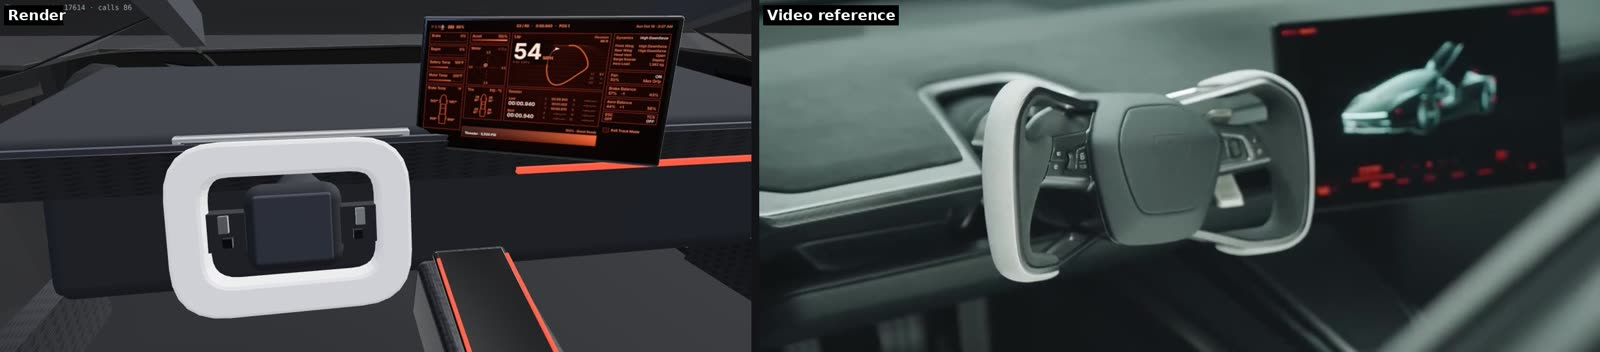
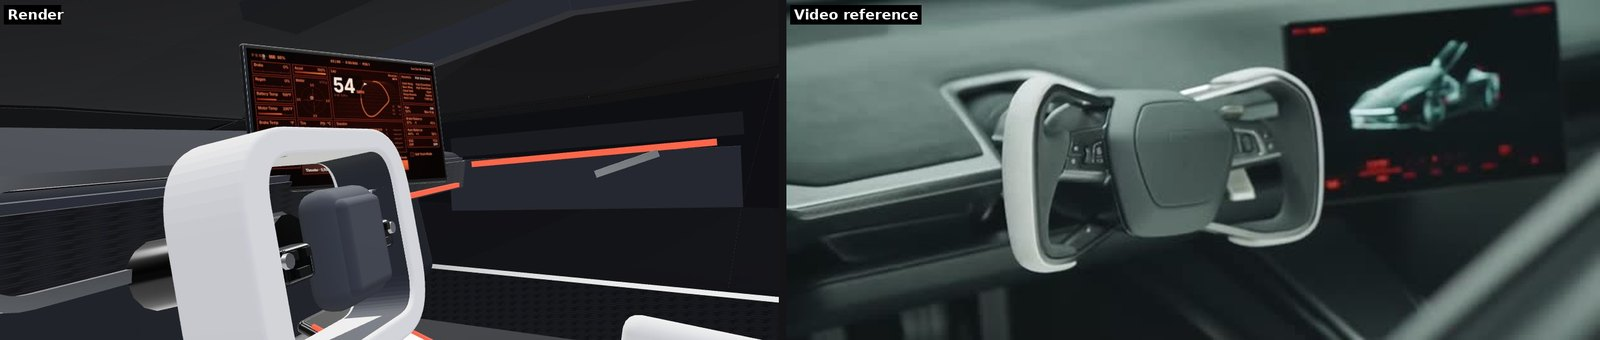
WIP: trunk gas tank and yoke rebuild (in progress)
Claude-Session: https://claude.ai/code/session_01GbkWYSAfWPfAWv1QqvCTVo

diff --git a/src/car.js b/src/car.js
@@ -57,6 +57,9 @@ const REAR_GLASS_END = -1.75;
 const DOOR_FRONT = 0.84;
 const DOOR_REAR = -0.28;
 const LID_FRONT = 1.98; // front lid: the hood panel between the two lamp seams
+// Rear trunk lid over the gas sphere: the deck and rear glass behind the cabin, hinged at its rear
+// edge just ahead of the wing; the front edge swings up tall.
+const TRUNK_FRONT = SIDE_GLASS_REAR, TRUNK_HINGE = -1.64;
 const ARCH_R = 0.4; // horizontal radius
 const ARCH_RY = 0.36; // vertical radius (the fender sits tight over the tyre)
 const ARCH_CY = SUSP.radius - COM_H; // wheel centre height at rest
@@ -261,6 +264,16 @@ function carbonTexture(light = false) {
   return t;
 }
 
+// Rounded rectangle path centred on the origin (for the yoke and the binnacle).
+function roundRect(sh, w, h, r) {
+  const x = -w / 2, y = -h / 2;
+  sh.moveTo(x + r, y); sh.lineTo(x + w - r, y); sh.quadraticCurveTo(x + w, y, x + w, y + r);
+  sh.lineTo(x + w, y + h - r); sh.quadraticCurveTo(x + w, y + h, x + w - r, y + h);
+  sh.lineTo(x + r, y + h); sh.quadraticCurveTo(x, y + h, x, y + h - r);
+  sh.lineTo(x, y + r); sh.quadraticCurveTo(x, y, x + r, y);
+  return sh;
+}
+
 // Box stretched between two points (for thin trim lines and struts).
 function barBetween(a, b, w, h, mat) {
   const d = new THREE.Vector3().subVectors(b, a);
@@ -291,7 +304,7 @@ export class RoadsterModel {
     this._q = new THREE.Quaternion();
     this.makeMaterials();
     this.buildBody();
-    this.buildFrunk();
+    this.buildTrunk();
     this.buildDetails();
     this.buildTail();
     if (opts.interior !== false) this.buildInterior(variant);
@@ -327,6 +340,7 @@ export class RoadsterModel {
       white: new THREE.MeshStandardMaterial({ color: 0xe9e9e6, roughness: 0.78 }),
       seatGray: new THREE.MeshStandardMaterial({ color: 0xb4b6b8, roughness: 0.9 }),
       alcantara: new THREE.MeshStandardMaterial({ color: 0x2b2d30, roughness: 1 }),
+      padGray: new THREE.MeshStandardMaterial({ color: 0x46494d, roughness: 0.8 }),
       trim: new THREE.MeshStandardMaterial({ color: 0x3c3f44, roughness: 0.75, metalness: 0.15 }),
       carbon: new THREE.MeshStandardMaterial({ color: 0xffffff, map: carbon, metalness: 0.35, roughness: 0.38 }),
       metal: new THREE.MeshStandardMaterial({ color: 0x3b3f45, metalness: 0.9, roughness: 0.3 }),
@@ -358,6 +372,7 @@ export class RoadsterModel {
     const xs = KEYS.map((k) => k[0]);
     const axles = [WHEELS[0].x, WHEELS[2].x];
     for (const wx of axles) for (let i = 1; i < 10; i++) xs.push(wx + ARCH_R * Math.cos((i / 10) * PI));
+    xs.push(TRUNK_HINGE);
     const archY = (x) => {
       for (const wx of axles) {
         const dx = (x - wx) / ARCH_R;
@@ -396,6 +411,7 @@ export class RoadsterModel {
     const mesh = new Mesher();
     const doorMesh = [new Mesher(), new Mesher()];
     const lidMesh = new Mesher();
+    const trunkMesh = new Mesher();
     const V = (st, k, side) => [st.x + (st.skew ? st.skew[k] : 0), st.pts[k][0], st.pts[k][1] * side];
     const ST = this.stations;
     for (let si = 0; si < ST.length - 1; si++) {
@@ -410,10 +426,11 @@ export class RoadsterModel {
         else if (k === 7) key = xm < WIN_FRONT && xm > REAR_GLASS_END ? 'glass' : 'paint';
         const door = k >= 3 && k <= 6 && xm < DOOR_FRONT && xm > DOOR_REAR;
         const lid = k === 7 && xm < LID_FRONT && xm > WIN_FRONT;
+        const trunk = (k === 6 || k === 7) && xm < TRUNK_FRONT && xm > TRUNK_HINGE;
         for (let side = 1; side >= -1; side -= 2) {
           const a = V(s0, k, side), b = V(s0, k + 1, side);
           const c = V(s1, k + 1, side), d = V(s1, k, side);
-          const target = door ? doorMesh[side > 0 ? 0 : 1] : lid ? lidMesh : mesh;
+          const target = door ? doorMesh[side > 0 ? 0 : 1] : lid ? lidMesh : trunk ? trunkMesh : mesh;
           const inner = door ? 'doorIn' : 'liner';
           if (side > 0) {
             target.tri(key, a, b, c);
@@ -468,6 +485,21 @@ export class RoadsterModel {
       m.add(pivot);
       this.lid = { pivot, inner };
     }
+    // Rear trunk lid (deck and rear glass): hinged at its rear edge, the front edge lifts.
+    {
+      const hy = sectionAt(TRUNK_HINGE)[T][0];
+      const pivot = new THREE.Group();
+      pivot.position.set(TRUNK_HINGE, hy, 0);
+      const inner = new THREE.Group();
+      inner.position.set(-TRUNK_HINGE, -hy, 0);
+      pivot.add(inner);
+      add(trunkMesh.geometry('paint'), this.mat.paint, inner);
+      add(trunkMesh.geometry('liner'), this.mat.liner, inner);
+      const tg = add(trunkMesh.geometry('glass'), this.mat.glass, inner);
+      if (tg) tg.renderOrder = 2;
+      m.add(pivot);
+      this.trunk = { pivot, inner };
+    }
 
     // Hinge at the front of the door just under the A-pillar; the axis is mostly transverse (the
     // door's rear edge swings up) and leans so the door also splays outward, as in the photos.
@@ -500,35 +532,37 @@ export class RoadsterModel {
     }
   }
 
-  // ---------------------------------------------------------------- front compartment
-  buildFrunk() {
+  // ---------------------------------------------------------------- rear trunk
+  // Behind the seat backs, under the rear deck lid: the carbon-wrapped gas sphere (COPV) with a
+  // grey girth band over its top, a cross tube in front of it and the valve block on its side.
+  buildTrunk() {
     const m = this.group;
     const b = new Batch();
-    // tub under the lid (inside faces only)
-    const tub = new THREE.Mesh(new THREE.BoxGeometry(0.72, 0.36, 1.16), new THREE.MeshStandardMaterial({ color: 0x1a1b1e, roughness: 0.8, side: THREE.BackSide }));
-    tub.position.set(1.58, -0.13, 0);
+    // tub (inside faces only), between the cabin bulkhead and the tail
+    const tub = new THREE.Mesh(new THREE.BoxGeometry(0.76, 0.62, 1.24), new THREE.MeshStandardMaterial({ color: 0x1a1b1e, roughness: 0.8, side: THREE.BackSide }));
+    tub.position.set(-1.25, -0.01, 0);
     tub.userData.shadow = false;
     m.add(tub);
-    // carbon-wrapped gas sphere (COPV)
-    const cx = 1.5, cy = -0.03, r = 0.2;
-    const sphere = new THREE.Mesh(new THREE.SphereGeometry(r, 24, 16), this.mat.copv);
+    const cx = -1.22, cy = 0.1, r = 0.27;
+    const sphere = new THREE.Mesh(new THREE.SphereGeometry(r, 28, 18), this.mat.copv);
     sphere.position.set(cx, cy, 0);
     m.add(sphere);
-    // girth band and the tubular cradle around it
-    b.add('trim', new THREE.TorusGeometry(r + 0.004, 0.012, 6, 32), cx, cy, 0, 0, PI / 2, 0);
-    b.add('metal', new THREE.TorusGeometry(r + 0.03, 0.011, 6, 24, PI), cx, cy, 0, 0, 0, 0);
-    b.bar('metal', new THREE.Vector3(cx - r - 0.03, cy, 0.0), new THREE.Vector3(cx - r - 0.03, cy - 0.2, 0), 0.022, 0.022);
-    b.bar('metal', new THREE.Vector3(cx + r + 0.03, cy, 0.0), new THREE.Vector3(cx + r + 0.03, cy - 0.2, 0), 0.022, 0.022);
-    for (const s of [1, -1]) b.bar('metal', new THREE.Vector3(cx - 0.05, cy + 0.02, s * 0.22), new THREE.Vector3(cx - 0.3, cy + 0.1, s * 0.45), 0.02, 0.02);
-    // valve / regulator assembly on the front face
-    const vx = cx + r * 0.8, vz = 0.09;
-    b.rbox('gloss', 0.035, 0.22, 0.13, 0.008, vx + 0.07, cy - 0.01, vz, 0, -0.5, -0.35, 'YXZ');
-    b.add('trim', new THREE.CylinderGeometry(0.03, 0.03, 0.2, 14), vx + 0.04, cy - 0.01, vz, 0, -0.5, -0.35, 'YXZ');
-    b.add('silver', new THREE.CylinderGeometry(0.032, 0.032, 0.02, 14), vx + 0.06, cy + 0.08, vz - 0.02, 0, -0.5, -0.35, 'YXZ');
-    b.add('metal', new THREE.CylinderGeometry(0.012, 0.012, 0.18, 8), vx + 0.02, cy - 0.11, vz - 0.04, 0, 0, 1.2);
-    b.box('silver', 0.03, 0.04, 0.05, vx + 0.07, cy - 0.12, vz + 0.04);
-    // cross tube from the bulkhead past the sphere
-    b.bar('metal', new THREE.Vector3(1.22, 0.04, -0.4), new THREE.Vector3(1.78, 0.02, 0.32), 0.03, 0.03);
+    // girth band across the top with a vent grille, and the cradle feet
+    b.add('trim', new THREE.TorusGeometry(r + 0.006, 0.02, 6, 36), cx, cy, 0, 0, PI / 2, 0);
+    for (let i = -2; i <= 2; i++) b.box('black', 0.012, 0.008, 0.03, cx + i * 0.02, cy + r + 0.022, 0.05);
+    for (const s of [1, -1]) {
+      b.bar('metal', new THREE.Vector3(cx, cy - 0.12, s * (r - 0.02)), new THREE.Vector3(cx + s * 0.0, -0.3, s * 0.3), 0.03, 0.03);
+    }
+    // cross tube in front of the sphere, from the driver's side across
+    b.bar('metal', new THREE.Vector3(cx + r + 0.04, cy + 0.04, -0.6), new THREE.Vector3(cx + r + 0.04, cy + 0.04, 0.6), 0.035, 0.035);
+    b.bar('metal', new THREE.Vector3(cx + r + 0.04, cy + 0.04, 0.42), new THREE.Vector3(cx + 0.05, cy + r + 0.05, 0.3), 0.03, 0.03);
+    // valve / regulator block in a bracket on the driver's side of the sphere
+    const vx = cx + 0.12, vy = cy - 0.02, vz = -(r - 0.02);
+    b.rbox('gloss', 0.18, 0.06, 0.035, 0.008, vx, vy, vz - 0.01, 0, 0.6, -0.5, 'YXZ');
+    b.add('trim', new THREE.CylinderGeometry(0.032, 0.032, 0.2, 14), vx, vy, vz - 0.05, 0, 0.6, PI / 2 - 0.5, 'YXZ');
+    b.add('silver', new THREE.CylinderGeometry(0.035, 0.035, 0.02, 14), vx + 0.08, vy + 0.05, vz - 0.08, 0, 0.6, PI / 2 - 0.5, 'YXZ');
+    b.box('silver', 0.04, 0.035, 0.04, vx - 0.08, vy - 0.05, vz - 0.03);
+    b.add('metal', new THREE.CylinderGeometry(0.012, 0.012, 0.2, 8), vx - 0.06, vy - 0.1, vz + 0.05, PI / 2, 0, 0);
     b.build(m, this.mat);
   }
 
@@ -659,8 +693,10 @@ export class RoadsterModel {
     for (let i = 0; i < 2; i++) {
       const side = i === 0 ? 1 : -1;
       const door = this.doorObjs[i].inner;
-      const onDoor = (xm) => (xm < DOOR_FRONT && xm > DOOR_REAR ? door : m);
-      const xsR = [WIN_FRONT, DOOR_FRONT, 0.2, DOOR_REAR, -0.65, -1.0, -1.36, REAR_GLASS_END];
+      const onDoor = (xm) => (xm < DOOR_FRONT && xm > DOOR_REAR ? door : xm < TRUNK_FRONT && xm > TRUNK_HINGE ? this.trunk.inner : m);
+      const xsR = [WIN_FRONT, DOOR_FRONT, 0.2, DOOR_REAR, -0.65, -1.0, -1.36, TRUNK_HINGE, REAR_GLASS_END];
+      // trunk lid shut line along the G crease
+      line([TRUNK_FRONT, -1.36, TRUNK_HINGE].map((x) => pt(stAt(x), G, side, 1.004)), 0.009);
       line(xsR.map((x) => pt(stAt(x), R, side)), 0.014, onDoor);
       line([WIN_FRONT, DOOR_FRONT, 0.2, DOOR_REAR, -0.65, SIDE_GLASS_REAR].map((x) => pt(stAt(x), G, side)), 0.012, onDoor);
       // door shut lines
@@ -806,14 +842,21 @@ export class RoadsterModel {
     b.box('trim', 0.012, 0.012, 1.7, 0.555, 0.172, 0);
     // red ambient strip on the passenger side of the dash fascia
     b.box('ambient', 0.012, 0.012, 0.7, 0.548, 0.1, 0.45);
-    // vent behind the yoke: dark slot with a light bezel
-    b.box('gloss', 0.03, 0.05, 0.38, 0.568, 0.155, z0);
-    for (const dy of [-0.03, 0.03]) b.rbox('silver', 0.02, 0.01, 0.42, 0.004, 0.565, 0.155 + dy, z0);
-    for (const dz of [-0.205, 0.205]) b.rbox('silver', 0.02, 0.07, 0.012, 0.004, 0.565, 0.155, z0 + dz);
-    for (let i = 0; i < 4; i++) b.box('metal', 0.02, 0.004, 0.37, 0.562, 0.137 + i * 0.012, z0);
+    // dark oval binnacle / vent housing behind the yoke, silver bezel set into the dash
+    {
+      const ring = roundRect(new THREE.Shape(), 0.44, 0.13, 0.065);
+      ring.holes.push(roundRect(new THREE.Path(), 0.41, 0.1, 0.05));
+      const bez = new THREE.ExtrudeGeometry(ring, { depth: 0.03, bevelEnabled: false, curveSegments: 8 });
+      bez.rotateY(PI / 2);
+      b.add('silver', bez, 0.55, 0.14, z0, 0, 0, -0.15);
+      const hole = new THREE.ExtrudeGeometry(roundRect(new THREE.Shape(), 0.41, 0.1, 0.05), { depth: 0.08, bevelEnabled: false, curveSegments: 8 });
+      hole.rotateY(PI / 2);
+      b.add('gloss', hole, 0.565, 0.14, z0, 0, 0, -0.15);
+      for (let i = 0; i < 3; i++) b.box('trim', 0.008, 0.006, 0.38, 0.566, 0.116 + i * 0.024, z0, 0, 0, -0.15);
+    }
     // yoke column
-    b.add('alcantara', new THREE.CylinderGeometry(0.04, 0.05, 0.26, 12), 0.46, 0.095, z0, 0, 0, PI / 2 - 0.25);
-    b.add('silver', new THREE.CylinderGeometry(0.043, 0.043, 0.02, 12), 0.36, 0.12, z0, 0, 0, PI / 2 - 0.25);
+    b.add('gloss', new THREE.CylinderGeometry(0.035, 0.042, 0.2, 14), 0.45, 0.1, z0, 0, 0, PI / 2 - 0.25);
+    b.add('silver', new THREE.CylinderGeometry(0.04, 0.04, 0.015, 14), 0.37, 0.12, z0, 0, 0, PI / 2 - 0.25);
     // pedals
     b.rbox('silver', 0.012, 0.11, 0.09, 0.004, 0.9, -0.2, z0 - 0.04, 0, 0, 0.5);
     b.rbox('silver', 0.012, 0.13, 0.05, 0.004, 0.92, -0.2, z0 + 0.1, 0, 0, 0.5);
@@ -900,36 +943,46 @@ export class RoadsterModel {
     }
     b.build(m, this.mat);
 
-    // yoke: squared white rim, dark centre pad; turns with the steering
+    // yoke: a squared stadium loop. Thick white outer shell with soft corners, flatter top and
+    // bottom, tall grips; the deep inner face of the rim is dark grey. A large grey rounded-square
+    // pad fills most of the opening on short spokes carrying black button clusters.
     const yokeMount = new THREE.Group();
     yokeMount.position.set(0.32, 0.125, z0);
-    yokeMount.rotation.z = -0.25; // top leans forward, column runs forward and down
+    yokeMount.rotation.z = -0.2; // top leans forward, column runs forward and down
     const yoke = new THREE.Group();
     yokeMount.add(yoke);
     {
       const yb = new Batch();
-      const rr = (s, w, h, r) => {
-        const x = -w / 2, y = -h / 2;
-        s.moveTo(x + r, y); s.lineTo(x + w - r, y); s.quadraticCurveTo(x + w, y, x + w, y + r);
-        s.lineTo(x + w, y + h - r); s.quadraticCurveTo(x + w, y + h, x + w - r, y + h);
-        s.lineTo(x + r, y + h); s.quadraticCurveTo(x, y + h, x, y + h - r);
-        s.lineTo(x, y + r); s.quadraticCurveTo(x, y, x + r, y);
-        return s;
+      // about 1.35:1, slim top and bottom bars, tall grips only slightly thicker, deep front to back
+      const W = 0.32, H = 0.237, depth = 0.085, gw = 0.036, bh = 0.024;
+      const iw = W - 2 * gw, ih = H - 2 * bh; // opening
+      const ext = (shape, d, bevel) => {
+        const g = new THREE.ExtrudeGeometry(shape, { depth: d, bevelEnabled: bevel > 0, bevelThickness: bevel, bevelSize: bevel, bevelSegments: 3, curveSegments: 12 });
+        g.translate(0, 0, -d / 2);
+        g.rotateY(PI / 2);
+        return g;
       };
-      const shape = rr(new THREE.Shape(), 0.3, 0.215, 0.065);
-      const hole = rr(new THREE.Path(), 0.232, 0.15, 0.04);
-      shape.holes.push(hole);
-      const rim = new THREE.ExtrudeGeometry(shape, { depth: 0.026, bevelEnabled: true, bevelThickness: 0.008, bevelSize: 0.006, bevelSegments: 2, curveSegments: 6 });
-      rim.translate(0, 0.0, -0.015);
-      rim.rotateY(PI / 2);
-      yb.add('white', rim);
-      // dark centre pad on two spokes; scroll wheels and buttons on the spokes
-      yb.rbox('alcantara', 0.05, 0.118, 0.13, 0.03, 0.012, -0.004, 0);
-      yb.rbox('trim', 0.01, 0.09, 0.1, 0.008, -0.014, -0.002, 0);
+      // white outer shell wrapping the outside edge
+      const shell = roundRect(new THREE.Shape(), W - 0.008, H - 0.008, 0.075);
+      shell.holes.push(roundRect(new THREE.Path(), iw + 0.004, ih + 0.004, 0.045));
+      yb.add('white', ext(shell, depth - 0.008, 0.004));
+      // dark grey inner lining: a wide band when seen at an angle
+      const lining = roundRect(new THREE.Shape(), iw + 0.006, ih + 0.006, 0.046);
+      lining.holes.push(roundRect(new THREE.Path(), iw - 0.004, ih - 0.004, 0.042));
+      yb.add('trim', ext(lining, depth - 0.012, 0));
+      // centre pad: small dark-grey pillowed square, ~40% of the opening's width and 60% of its height,
+      // slightly proud of the rim toward the driver
+      const pw = iw * 0.5, ph = ih * 0.8;
+      yb.rbox('padGray', 0.045, ph, pw, 0.02, -0.03, 0, 0);
+      yb.rbox('padGray', 0.02, ph - 0.024, pw - 0.024, 0.01, -0.05, 0, 0);
       for (const s of [1, -1]) {
-        yb.box('alcantara', 0.034, 0.05, 0.06, 0.012, -0.004, s * 0.092);
-        yb.box('silver', 0.012, 0.022, 0.012, -0.008, 0.008, s * 0.088);
-        yb.box('metal', 0.012, 0.012, 0.012, -0.008, -0.016, s * 0.084);
+        // horizontal spoke bridging the gap to the grip, carrying a black button cluster
+        const z0s = pw / 2 - 0.004, z1s = iw / 2 + 0.004, zc = (z0s + z1s) / 2;
+        yb.rbox('alcantara', 0.028, 0.034, z1s - z0s, 0.008, -0.012, -0.004, s * zc);
+        yb.rbox('gloss', 0.008, 0.03, 0.04, 0.005, -0.028, -0.002, s * (zc - 0.004));
+        for (const dz of [-0.01, 0.01]) yb.box('black', 0.006, 0.008, 0.008, -0.033, 0.006, s * (zc - 0.004 + dz));
+        yb.box('black', 0.006, 0.008, 0.018, -0.033, -0.01, s * (zc - 0.004));
+        yb.add('silver', new THREE.CylinderGeometry(0.007, 0.007, 0.005, 10), -0.034, 0.003, s * (zc + 0.016), 0, 0, PI / 2);
       }
       yb.build(yoke, this.mat);
     }
@@ -1110,7 +1163,7 @@ export class RoadsterModel {
   }
 
   // st: { wheels[{steer, spin, y}], doors, wing, airbrake, lights, brake, fans, nozzles, speed,
-  //       frunk (0..1, optional), steer (yoke, optional), cockpit (bool: first-person view live),
+  //       frunk (0..1, optional: opens the rear trunk lid over the gas sphere), steer (yoke, optional), cockpit (bool: first-person view live),
   //       telemetry (optional, see screen.js) }
   update(dt, st) {
     const s = this.s;
@@ -1136,7 +1189,7 @@ export class RoadsterModel {
     for (const d of this.doorObjs) d.pivot.quaternion.setFromAxisAngle(d.axis, doorAng * d.sign);
     // front lid
     s.frunk = ease(s.frunk, clamp01(st.frunk || 0), 3, dt);
-    this.lid.pivot.rotation.z = s.frunk * 1.15;
+    this.trunk.pivot.rotation.z = s.frunk * 1.2; // st.frunk opens the rear trunk lid
     // wing and airbrake
     s.wing = ease(s.wing, clamp01(st.wing || 0), 4, dt);
     s.airbrake = ease(s.airbrake, clamp01(st.airbrake || 0), 6, dt);

diff --git a/src/main.js b/src/main.js
@@ -165,7 +165,7 @@ function renderHints() {
     : `<div>${k('W')} ${k('S')} <b>Throttle / brake</b> (hold ${k('S')} at a stop to reverse) &nbsp; ${k('A')} ${k('D')} <b>Steer</b></div>
        ${gas}
        <div>${k('T')} <b>Track Mode</b> &nbsp; ${k('F')} <b>Fans off</b> (drop from the wall) &nbsp; ${k('B')} <b>Handbrake</b></div>
-       <div>${k('C')} Camera &nbsp; ${k('L')} Lights &nbsp; ${k('O')} Doors &nbsp; ${k('K')} Front lid &nbsp; ${k('1')}-${k('5')} Stunts &nbsp; ${k('R')} Respawn &nbsp; ${k('H')} Hide help &nbsp; ${k('M')} Mute &nbsp; ${k('Esc')} Menu</div>`;
+       <div>${k('C')} Camera &nbsp; ${k('L')} Lights &nbsp; ${k('O')} Doors &nbsp; ${k('K')} Trunk &nbsp; ${k('1')}-${k('5')} Stunts &nbsp; ${k('R')} Respawn &nbsp; ${k('H')} Hide help &nbsp; ${k('M')} Mute &nbsp; ${k('Esc')} Menu</div>`;
 }
 input.onDevice = (d) => { renderHints(); menuHint(); toast(d === 'pad' ? `Controller active${input.padName ? ': ' + input.padName.replace(/\(.*\)/, '').trim() : ''}` : 'Keyboard active'); };
 
@@ -605,7 +605,7 @@ function update(dt) {
     if (P.camera) { camMode = (camMode + 1) % CAMS.length; toast(CAMS[camMode]); }
     if (P.lights) { lights = !lights; toast(lights ? 'Headlights up' : 'Headlights hidden'); }
     if (P.doors) { mst.doorsT = mst.doorsT ? 0 : 1; if (Math.abs(vehicle.vFwd) > 3) toast('Stop to open the doors'); }
-    if (P.frunk) { mst.frunkT = mst.frunkT ? 0 : 1; if (Math.abs(vehicle.vFwd) > 3) toast('Stop to open the front lid'); }
+    if (P.frunk) { mst.frunkT = mst.frunkT ? 0 : 1; if (Math.abs(vehicle.vFwd) > 3) toast('Stop to open the trunk'); }
     if (P.hints) $('hints').classList.toggle('off');
     if (P.reset) { vehicle.respawn(stuntFor(vehicle.pos)); centerMsg(vehicle.spawn.label, '', 1); }
     let jump = null;

diff --git a/preview/car-preview.js b/preview/car-preview.js
@@ -5,8 +5,8 @@ import { RoadsterModel } from '../src/car.js';
 import { VARIANTS, WHEELS, COM_H, SUSP } from '../src/spec.js';
 import { DEMO_TEL } from '../src/screen.js';
 
-// Preview: ?view=side|front|rear|top|threeq|rear3q|interior|frontlow|cockpit|frunk|dash&variant=rocket&doors=1&wing=1
-//          &airbrake=1&lights=1&brake=1&fans=1&noz=1&steer=0.4&frunk=1&mph=54&bg=light
+// Preview: ?view=side|front|rear|top|threeq|rear3q|interior|frontlow|cockpit|trunk|dash&variant=rocket&doors=1&wing=1
+//          &airbrake=1&lights=1&brake=1&fans=1&noz=1&steer=0.4&frunk=1 (trunk)&mph=54&bg=light
 const q = new URLSearchParams(location.search);
 const num = (k, d = 0) => (q.has(k) ? parseFloat(q.get(k)) : d);
 
@@ -59,7 +59,7 @@ const views = {
   frontlow: [[7.5, 0.9, 3.3], [0, 0.45, 0]],
   interior: [[-0.35, 0.95, 0.8], [0.7, 0.62, -0.45]],
   dash: [[-0.05, 0.86, 0.55], [0.6, 0.66, -0.2]],
-  frunk: [[3.6, 2.0, 2.4], [1.3, 0.35, 0]],
+  trunk: [[-3.2, 2.0, -2.6], [-1.2, 0.5, 0]],
   cockpit: [[0, 0, 0], [1, 0, 0]],
   under: [[1.5, -3.2, 3.2], [-0.2, 0.3, 0]],
 };

diff --git a/README.md b/README.md
@@ -20,7 +20,7 @@ Pushing to `main` deploys to GitHub Pages through `.github/workflows/deploy.yml`
 
 ## What is in it
 
-**The car**, modelled from Tesla's official photos and the close-look video: a low faceted wedge in satin white with a black lower body and silver sill blades, a bronze glass canopy from the windshield to the tail, a raked black nose under a full-width light line, pop-up lamps that lift out of the hood seams, a hood vent, a front lid that opens on the carbon-wrapped gas sphere, amber markers over the outlets behind the front wheels, butterfly doors, a deck wing that rises up and back on swan-neck struts and tilts into an airbrake, a full-width red tail bar with lit lettering over a lit RDSTR plate, four gold-lined cold-gas nozzles over four suction-fan bays in a carbon diffuser, and six-spoke wheels on aero discs. Inside: white buckets with lit badges, belts, a dark alcantara dash with carbon trim and a red ambient strip, the squared yoke (it turns with the steering), a console tray, the roll hoop, and the floating touchscreen, which in the cockpit camera shows live telemetry in the car's Track Mode layout (speed, gear, battery, brake/accel/regen, temperatures, g-meter, lap trace, tyres, 0-60 session and thruster gas).
+**The car**, modelled from Tesla's official photos and the close-look video: a low faceted wedge in satin white with a black lower body and silver sill blades, a bronze glass canopy from the windshield to the tail, a raked black nose under a full-width light line, pop-up lamps that lift out of the hood seams, a hood vent, a rear trunk lid behind the cabin that swings up over the carbon-wrapped gas sphere, amber markers over the outlets behind the front wheels, butterfly doors, a deck wing that rises up and back on swan-neck struts and tilts into an airbrake, a full-width red tail bar with lit lettering over a lit RDSTR plate, four gold-lined cold-gas nozzles over four suction-fan bays in a carbon diffuser, and six-spoke wheels on aero discs. Inside: white buckets with lit badges, belts, a dark alcantara dash with carbon trim and a red ambient strip, the squared yoke (it turns with the steering), a console tray, the roll hoop, and the floating touchscreen, which in the cockpit camera shows live telemetry in the car's Track Mode layout (speed, gear, battery, brake/accel/regen, temperatures, g-meter, lap trace, tyres, 0-60 session and thruster gas).
 
 **Three versions**, as announced:
 
@@ -55,8 +55,8 @@ Each image puts the in-game render (left) beside a frame from the closer-look vi
 | Side profile, wing raised | Front three-quarter, pop-up lamps |
 | ![Rear, wing and brake lights](docs/compare/03-rear-wing-brake-lights.jpg) | ![Diffuser, nozzles and fans](docs/compare/04-diffuser-nozzles-fans.jpg) |
 | Tail bar under braking, wing up | Diffuser with cold-gas nozzles and suction fans |
-| ![Front lid and gas sphere](docs/compare/05-frunk-gas-sphere.jpg) | ![Doors and wing up](docs/compare/09-doors-and-wing-up.jpg) |
-| Front lid open on the gas tank (`K`) | Butterfly doors and wing up |
+| ![Trunk and gas sphere](docs/compare/05-trunk-gas-sphere.jpg) | ![Doors and wing up](docs/compare/09-doors-and-wing-up.jpg) |
+| Rear trunk lid open on the gas tank behind the seats (`K`) | Butterfly doors and wing up |
 | ![Yoke and touchscreen](docs/compare/06-yoke-and-touchscreen.jpg) | ![Touchscreen UI](docs/compare/07-touchscreen-ui.jpg) |
 | Yoke and floating touchscreen | Live track-mode touchscreen |
 
@@ -81,7 +81,7 @@ Each image puts the in-game render (left) beside a frame from the closer-look vi
 | Camera (chase, far, cockpit, broadcast) | `C` | `Y` |
 | Look around | | Right stick |
 | Headlights / doors | `L` / `O` | D-pad up / down |
-| Front lid (gas sphere) | `K` | |
+| Trunk (gas sphere) | `K` | |
 | Jump to a stunt | `1`-`5` | D-pad left / right |
 | Respawn | `R` | View |
 | Menu / pause / leave Event mode | `Esc` | Menu |
